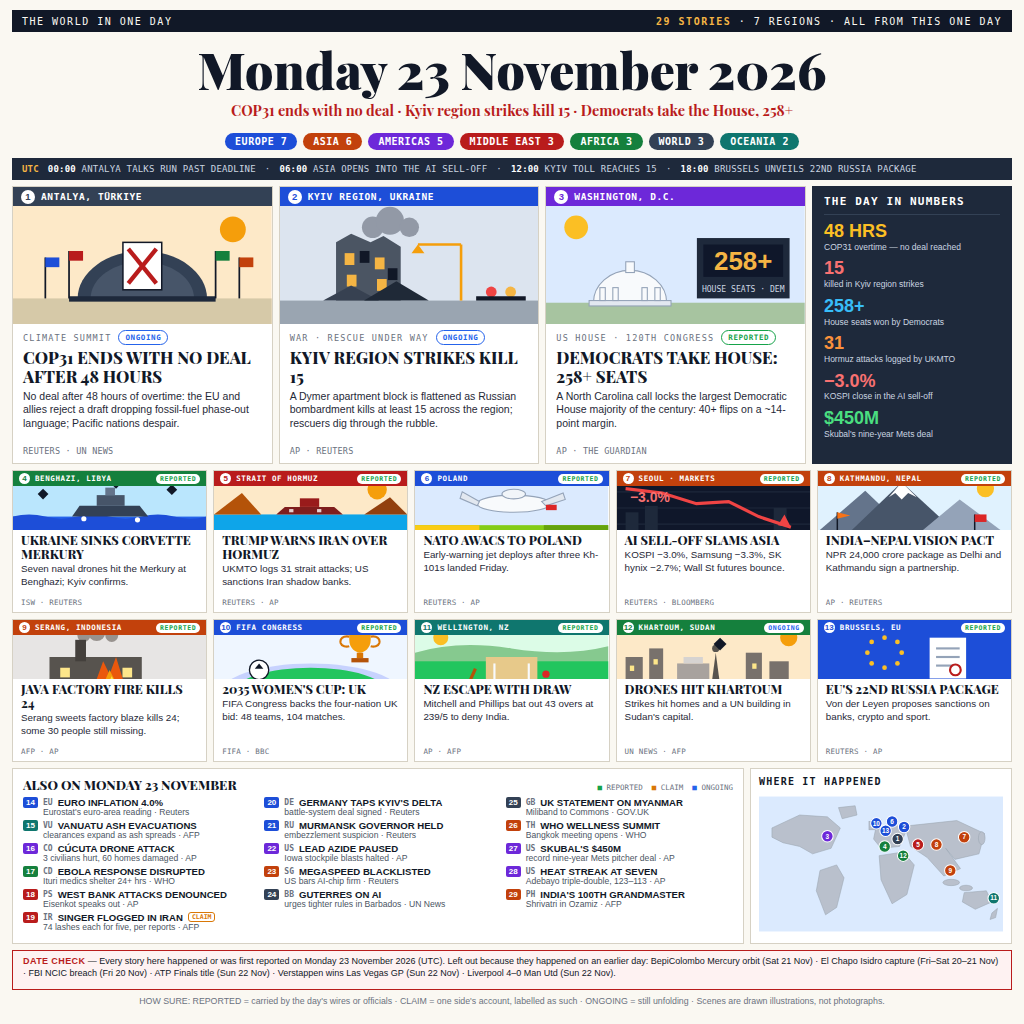
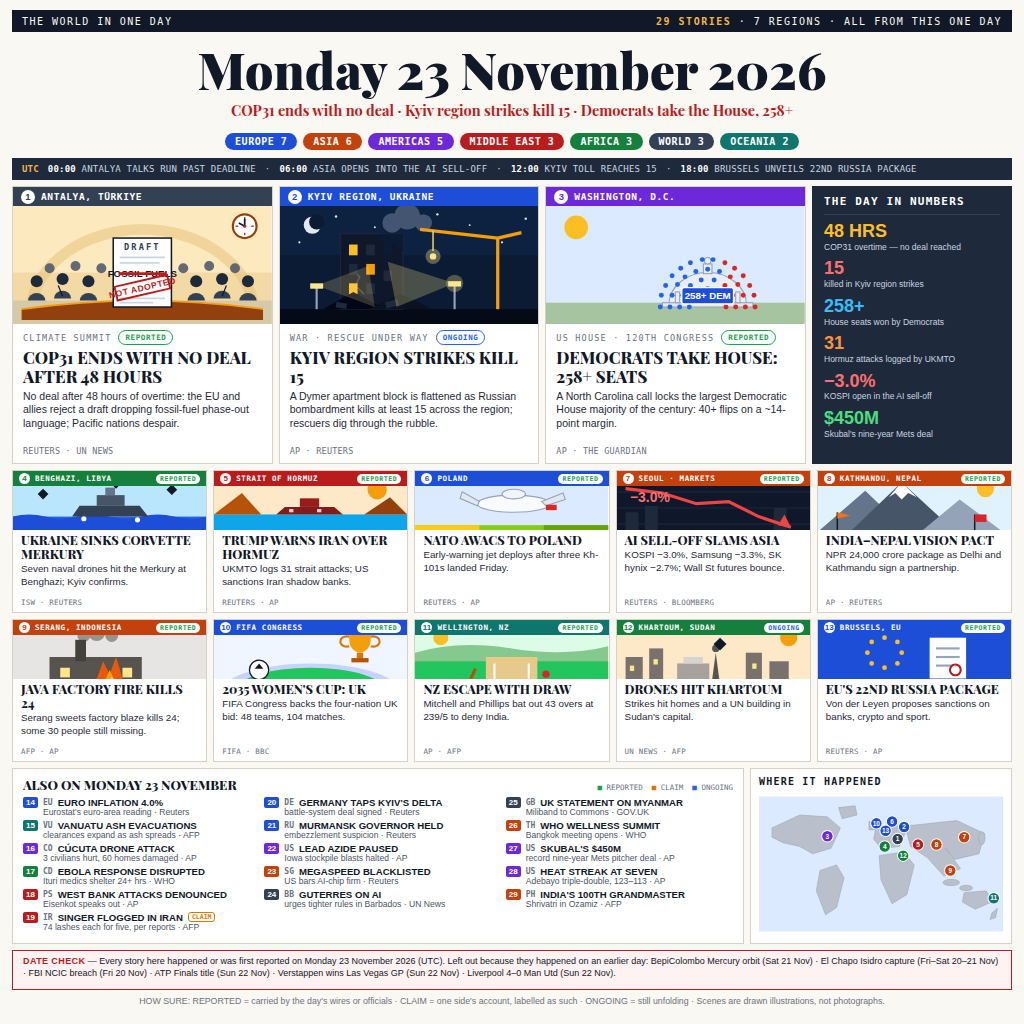
v3 — richer lead illustrations (plenary draft scene, Kyiv night rescue, House hemicycle), lead-1 REPORTED, KOSPI open

Changed region(s): [[0.0, 0.1875, 0.5312, 0.3438], [0.5625, 0.2188, 0.7812, 0.3125], [0.8438, 0.375, 0.9062, 0.4062]]

diff --git a/page.html b/page.html
@@ -156,24 +156,46 @@
   <div class="lead chk">
     <div class="locbar rg-WORLD"><span class="num tx-WORLD">1</span><span class="loc">ANTALYA, TÜRKIYE</span></div>
     <svg viewBox="0 0 240 110" preserveAspectRatio="xMidYMid slice">
-      <rect width="240" height="110" fill="#FDE9C8"/>
-      <circle cx="204" cy="22" r="12" fill="#F59E0B"/>
-      <rect y="86" width="240" height="24" fill="#D6C9A8"/>
-      <path d="M60 86 A60 44 0 0 1 180 86 Z" fill="#334155"/>
-      <path d="M72 86 A48 34 0 0 1 168 86 Z" fill="#475569"/>
-      <rect x="52" y="84" width="136" height="5" fill="#1E293B"/>
-      <g stroke="#111827" stroke-width="1.6">
-        <line x1="30" y1="86" x2="30" y2="48"/><line x1="52" y1="86" x2="52" y2="42"/>
-        <line x1="188" y1="86" x2="188" y2="42"/><line x1="210" y1="86" x2="210" y2="48"/>
+      <rect width="240" height="110" fill="#FCE9BE"/>
+      <rect y="62" width="240" height="48" fill="#F3D9A4"/>
+      <path d="M16 102 A104 80 0 0 1 224 102" fill="none" stroke="#E7C37C" stroke-width="10" opacity=".55"/>
+      <rect y="88" width="240" height="22" fill="#D6C9A8"/>
+      <g>
+        <circle cx="215" cy="19" r="11" fill="#FFFFFF" stroke="#92400E" stroke-width="2"/>
+        <g stroke="#92400E" stroke-width="1.2"><line x1="215" y1="10.5" x2="215" y2="13"/><line x1="215" y1="25" x2="215" y2="27.5"/><line x1="206.5" y1="19" x2="209" y2="19"/><line x1="221" y1="19" x2="223.5" y2="19"/></g>
+        <line x1="215" y1="19" x2="215" y2="12" stroke="#111827" stroke-width="1.6"/>
+        <line x1="215" y1="19" x2="209.5" y2="16" stroke="#111827" stroke-width="1.6"/>
+        <circle cx="215" cy="19" r="1.4" fill="#B91C1C"/>
       </g>
-      <rect x="30" y="48" width="13" height="9" fill="#1D4ED8"/>
-      <rect x="52" y="42" width="13" height="9" fill="#B91C1C"/>
-      <rect x="188" y="42" width="13" height="9" fill="#15803D"/>
-      <rect x="210" y="48" width="13" height="9" fill="#C2410C"/>
-      <rect x="102" y="34" width="36" height="44" fill="#FFFFFF" stroke="#111827" stroke-width="1.4"/>
-      <g stroke="#B91C1C" stroke-width="4"><line x1="107" y1="40" x2="133" y2="72"/><line x1="133" y1="40" x2="107" y2="72"/></g>
+      <g fill="#475569" opacity=".85">
+        <circle cx="34" cy="58" r="4.6"/><circle cx="58" cy="56" r="4.6"/><circle cx="82" cy="58" r="4.6"/>
+        <circle cx="158" cy="58" r="4.6"/><circle cx="182" cy="56" r="4.6"/><circle cx="206" cy="58" r="4.6"/>
+      </g>
+      <g fill="#1E293B">
+        <circle cx="22" cy="70" r="5.6"/><circle cx="46" cy="68" r="5.6"/><circle cx="70" cy="70" r="5.6"/>
+        <circle cx="170" cy="70" r="5.6"/><circle cx="194" cy="68" r="5.6"/><circle cx="218" cy="70" r="5.6"/>
+      </g>
+      <g fill="#334155">
+        <path d="M14 88 a8 7 0 0 1 16 0 Z"/><path d="M38 86 a8 7 0 0 1 16 0 Z"/><path d="M62 88 a8 7 0 0 1 16 0 Z"/>
+        <path d="M162 88 a8 7 0 0 1 16 0 Z"/><path d="M186 86 a8 7 0 0 1 16 0 Z"/><path d="M210 88 a8 7 0 0 1 16 0 Z"/>
+      </g>
+      <path d="M8 96 Q120 80 232 96 L232 106 L8 106 Z" fill="#92400E"/>
+      <path d="M8 96 Q120 80 232 96" fill="none" stroke="#F59E0B" stroke-width="1.6"/>
+      <g stroke="#111827" stroke-width="1.1"><line x1="46" y1="84" x2="42" y2="74"/><line x1="194" y1="84" x2="198" y2="74"/></g>
+      <g>
+        <rect x="93" y="30" width="54" height="64" fill="#FFFFFF" stroke="#111827" stroke-width="1.4"/>
+        <text x="120" y="41" text-anchor="middle" font-family="DejaVu Sans Mono, monospace" font-weight="bold" font-size="8" letter-spacing="2" fill="#334155">DRAFT</text>
+        <g stroke="#CBD5E1" stroke-width="1.6"><line x1="99" y1="48" x2="141" y2="48"/><line x1="99" y1="53" x2="136" y2="53"/></g>
+        <text x="120" y="66" text-anchor="middle" font-family="Liberation Sans, Arial" font-weight="bold" font-size="9" fill="#111827">FOSSIL FUELS</text>
+        <line x1="98" y1="63" x2="142" y2="63" stroke="#B91C1C" stroke-width="2.4"/>
+        <g stroke="#CBD5E1" stroke-width="1.6"><line x1="99" y1="86" x2="141" y2="86"/><line x1="99" y1="90" x2="130" y2="90"/></g>
+        <g transform="rotate(-13 120 76)">
+          <rect x="95" y="69.5" width="50" height="13" fill="none" stroke="#B91C1C" stroke-width="1.8"/>
+          <text x="120" y="79" text-anchor="middle" font-family="Liberation Sans, Arial" font-weight="bold" font-size="8" letter-spacing=".5" fill="#B91C1C">NOT ADOPTED</text>
+        </g>
+      </g>
     </svg>
-    <div class="kick"><span>CLIMATE SUMMIT</span><span class="st st-ONGOING" style="border:1px solid #2563EB">ONGOING</span></div>
+    <div class="kick"><span>CLIMATE SUMMIT</span><span class="st st-REPORTED" style="border:1px solid #16A34A">REPORTED</span></div>
     <h2 class="chk">COP31 ENDS WITH NO DEAL AFTER 48 HOURS</h2>
     <div class="deck chk">No deal after 48 hours of overtime: the EU and allies reject a draft dropping fossil-fuel phase-out language; Pacific nations despair.</div>
     <div class="src chk">REUTERS · UN NEWS</div>
@@ -182,28 +204,44 @@
   <div class="lead chk">
     <div class="locbar rg-EUROPE"><span class="num tx-EUROPE">2</span><span class="loc">KYIV REGION, UKRAINE</span></div>
     <svg viewBox="0 0 240 110" preserveAspectRatio="xMidYMid slice">
-      <rect width="240" height="110" fill="#DCE4EF"/>
-      <rect y="88" width="240" height="22" fill="#9AA5B1"/>
-      <g fill="#6B7280" opacity=".65">
-        <circle cx="86" cy="20" r="10"/><circle cx="102" cy="14" r="13"/><circle cx="120" cy="20" r="9"/>
+      <rect width="240" height="110" fill="#0B1B33"/>
+      <rect width="240" height="46" fill="#10264A" opacity=".65"/>
+      <g fill="#E2E8F0">
+        <circle cx="18" cy="34" r="1"/><circle cx="52" cy="10" r="1.1"/><circle cx="88" cy="20" r=".9"/>
+        <circle cx="146" cy="8" r="1.1"/><circle cx="176" cy="18" r=".9"/><circle cx="206" cy="34" r="1"/><circle cx="228" cy="12" r="1.1"/>
       </g>
-      <polygon points="52,88 52,34 66,26 84,34 96,28 112,38 112,88" fill="#4B5563"/>
-      <g fill="#F5B544">
-        <rect x="60" y="44" width="9" height="11"/><rect x="88" y="48" width="9" height="11"/>
-        <rect x="62" y="64" width="9" height="11"/><rect x="90" y="68" width="9" height="11"/>
+      <circle cx="30" cy="18" r="8" fill="#E2E8F0"/>
+      <circle cx="34" cy="15" r="7" fill="#0B1B33"/>
+      <rect y="96" width="240" height="14" fill="#050B16"/>
+      <g fill="#94A3B8" opacity=".4">
+        <circle cx="104" cy="16" r="9"/><circle cx="118" cy="10" r="12"/><circle cx="133" cy="16" r="8"/>
       </g>
-      <g fill="#111827">
-        <rect x="74" y="42" width="9" height="11"/><rect x="100" y="58" width="9" height="11"/>
+      <rect x="56" y="26" width="58" height="70" fill="#0F172A" stroke="#1E293B"/>
+      <polygon points="94,26 114,26 114,42 105,35 101,44 96,37" fill="#0B1B33"/>
+      <polyline points="66,58 74,66 70,74 78,82" fill="none" stroke="#334155" stroke-width="1.4"/>
+      <g>
+        <rect x="64" y="36" width="8" height="10" fill="#FBBF24"/><rect x="80" y="36" width="8" height="10" fill="#1E293B"/>
+        <rect x="96" y="36" width="8" height="10" fill="#0B1B33"/>
+        <rect x="64" y="54" width="8" height="10" fill="#1E293B"/><rect x="80" y="54" width="8" height="10" fill="#F59E0B"/>
+        <rect x="64" y="72" width="8" height="10" fill="#FBBF24"/><rect x="80" y="72" width="8" height="10" fill="#1E293B"/>
+        <rect x="96" y="60" width="8" height="10" fill="#1E293B"/>
       </g>
-      <polygon points="40,88 66,74 92,88" fill="#374151"/>
-      <polygon points="78,88 108,70 138,88" fill="#1F2937"/>
-      <g stroke="#F59E0B" stroke-width="2.4">
-        <line x1="168" y1="88" x2="168" y2="36"/><line x1="168" y1="36" x2="128" y2="36"/>
+      <polygon points="40,96 68,80 98,96" fill="#020617"/>
+      <polygon points="82,96 112,82 142,96" fill="#0B1220"/>
+      <g fill="#1E293B"><rect x="98" y="88" width="12" height="6" transform="rotate(-14 104 91)"/><rect x="52" y="90" width="10" height="5" transform="rotate(10 57 92)"/></g>
+      <polygon points="162,72 100,52 108,94" fill="#FDE68A" opacity=".26"/>
+      <polygon points="34,74 82,56 88,94" fill="#FDE68A" opacity=".2"/>
+      <g stroke="#F59E0B" stroke-width="3">
+        <line x1="202" y1="96" x2="202" y2="30"/><line x1="202" y1="30" x2="130" y2="22"/><line x1="202" y1="30" x2="224" y2="25"/>
       </g>
-      <polygon points="128,36 122,44 134,44" fill="#F59E0B"/>
-      <circle cx="196" cy="80" r="5" fill="#EF4444"/>
-      <circle cx="214" cy="80" r="5" fill="#F5B544"/>
-      <rect x="182" y="84" width="46" height="4" fill="#111827"/>
+      <line x1="142" y1="23" x2="142" y2="42" stroke="#FCD34D" stroke-width="1.4"/>
+      <circle cx="142" cy="47" r="3" fill="#FDE68A"/>
+      <circle cx="142" cy="47" r="7" fill="#FDE68A" opacity=".35"/>
+      <line x1="162" y1="96" x2="162" y2="74" stroke="#94A3B8" stroke-width="2"/>
+      <rect x="156" y="70" width="12" height="5" fill="#FDE68A"/>
+      <circle cx="162" cy="72" r="8" fill="#FDE68A" opacity=".3"/>
+      <line x1="34" y1="96" x2="34" y2="76" stroke="#94A3B8" stroke-width="2"/>
+      <rect x="28" y="72" width="12" height="5" fill="#FDE68A"/>
     </svg>
     <div class="kick"><span>WAR · RESCUE UNDER WAY</span><span class="st st-ONGOING" style="border:1px solid #2563EB">ONGOING</span></div>
     <h2 class="chk">KYIV REGION STRIKES KILL 15</h2>
@@ -217,17 +255,33 @@
       <rect width="240" height="110" fill="#DBEAFE"/>
       <circle cx="28" cy="20" r="11" fill="#FBBF24"/>
       <rect y="90" width="240" height="20" fill="#A7C4A0"/>
-      <path d="M44 90 A34 30 0 0 1 112 90 Z" fill="#F8FAFC" stroke="#94A3B8"/>
-      <rect x="40" y="88" width="76" height="5" fill="#E2E8F0" stroke="#94A3B8"/>
-      <rect x="74" y="52" width="8" height="10" fill="#F8FAFC" stroke="#94A3B8"/>
-      <g fill="#F8FAFC" stroke="#94A3B8">
-        <rect x="50" y="76" width="5" height="12"/><rect x="62" y="76" width="5" height="12"/>
-        <rect x="89" y="76" width="5" height="12"/><rect x="101" y="76" width="5" height="12"/>
+      <g>
+        <path d="M114 92 A36 30 0 0 1 186 92 Z" fill="#E8EEF5" stroke="#94A3B8"/>
+        <rect x="108" y="90" width="84" height="4" fill="#E2E8F0" stroke="#94A3B8"/>
+        <rect x="146" y="54" width="8" height="9" fill="#E8EEF5" stroke="#94A3B8"/>
+        <circle cx="150" cy="51" r="3" fill="#E8EEF5" stroke="#94A3B8"/>
+        <g fill="#E8EEF5" stroke="#94A3B8">
+          <rect x="120" y="80" width="4" height="10"/><rect x="132" y="80" width="4" height="10"/>
+          <rect x="164" y="80" width="4" height="10"/><rect x="176" y="80" width="4" height="10"/>
+        </g>
       </g>
-      <rect x="140" y="30" width="86" height="56" fill="#1E293B"/>
-      <rect x="146" y="36" width="74" height="30" fill="#0F172A"/>
-      <text x="183" y="60" text-anchor="middle" font-family="Liberation Sans, Arial" font-weight="bold" font-size="24" fill="#F5B544">258+</text>
-      <text x="183" y="80" text-anchor="middle" font-family="DejaVu Sans Mono, monospace" font-size="7.5" fill="#CBD5E1">HOUSE SEATS · DEM</text>
+      <g fill="#2563EB">
+        <circle cx="106" cy="94" r="2.3"/><circle cx="107" cy="83" r="2.3"/><circle cx="111" cy="74" r="2.3"/><circle cx="117" cy="65" r="2.3"/>
+        <circle cx="125" cy="58" r="2.3"/><circle cx="134" cy="53" r="2.3"/><circle cx="145" cy="50" r="2.3"/><circle cx="155" cy="50" r="2.3"/>
+        <circle cx="115" cy="94" r="2.3"/><circle cx="117" cy="83" r="2.3"/><circle cx="122" cy="73" r="2.3"/><circle cx="129" cy="66" r="2.3"/>
+        <circle cx="139" cy="61" r="2.3"/><circle cx="150" cy="59" r="2.3"/><circle cx="161" cy="61" r="2.3"/>
+        <circle cx="124" cy="94" r="2.3"/><circle cx="127" cy="83" r="2.3"/><circle cx="134" cy="74" r="2.3"/><circle cx="144" cy="69" r="2.3"/><circle cx="156" cy="69" r="2.3"/>
+        <circle cx="133" cy="94" r="2.3"/><circle cx="138" cy="82" r="2.3"/><circle cx="150" cy="77" r="2.3"/>
+      </g>
+      <g fill="#DC2626">
+        <circle cx="166" cy="53" r="2.3"/><circle cx="175" cy="58" r="2.3"/><circle cx="183" cy="65" r="2.3"/><circle cx="189" cy="74" r="2.3"/>
+        <circle cx="193" cy="83" r="2.3"/><circle cx="194" cy="94" r="2.3"/>
+        <circle cx="171" cy="66" r="2.3"/><circle cx="178" cy="73" r="2.3"/><circle cx="183" cy="83" r="2.3"/><circle cx="185" cy="94" r="2.3"/>
+        <circle cx="166" cy="74" r="2.3"/><circle cx="173" cy="83" r="2.3"/><circle cx="176" cy="94" r="2.3"/>
+        <circle cx="162" cy="82" r="2.3"/><circle cx="167" cy="94" r="2.3"/>
+      </g>
+      <rect x="126" y="76" width="48" height="15" rx="2" fill="#1D4ED8" stroke="#FFFFFF" stroke-width="1.2"/>
+      <text x="150" y="87" text-anchor="middle" font-family="Liberation Sans, Arial" font-weight="bold" font-size="9" fill="#FFFFFF">258+ DEM</text>
     </svg>
     <div class="kick"><span>US HOUSE · 120TH CONGRESS</span><span class="st st-REPORTED" style="border:1px solid #16A34A">REPORTED</span></div>
     <h2 class="chk">DEMOCRATS TAKE HOUSE: 258+ SEATS</h2>
@@ -241,7 +295,7 @@
     <div class="callout"><div class="n chk" style="color:#F87171">15</div><div class="t chk">killed in Kyiv region strikes</div></div>
     <div class="callout"><div class="n chk" style="color:#38BDF8">258+</div><div class="t chk">House seats won by Democrats</div></div>
     <div class="callout"><div class="n chk" style="color:#FB923C">31</div><div class="t chk">Hormuz attacks logged by UKMTO</div></div>
-    <div class="callout"><div class="n chk" style="color:#F87171">−3.0%</div><div class="t chk">KOSPI close in the AI sell-off</div></div>
+    <div class="callout"><div class="n chk" style="color:#F87171">−3.0%</div><div class="t chk">KOSPI open in the AI sell-off</div></div>
     <div class="callout"><div class="n chk" style="color:#4ADE80">$450M</div><div class="t chk">Skubal's nine-year Mets deal</div></div>
   </div>
 
